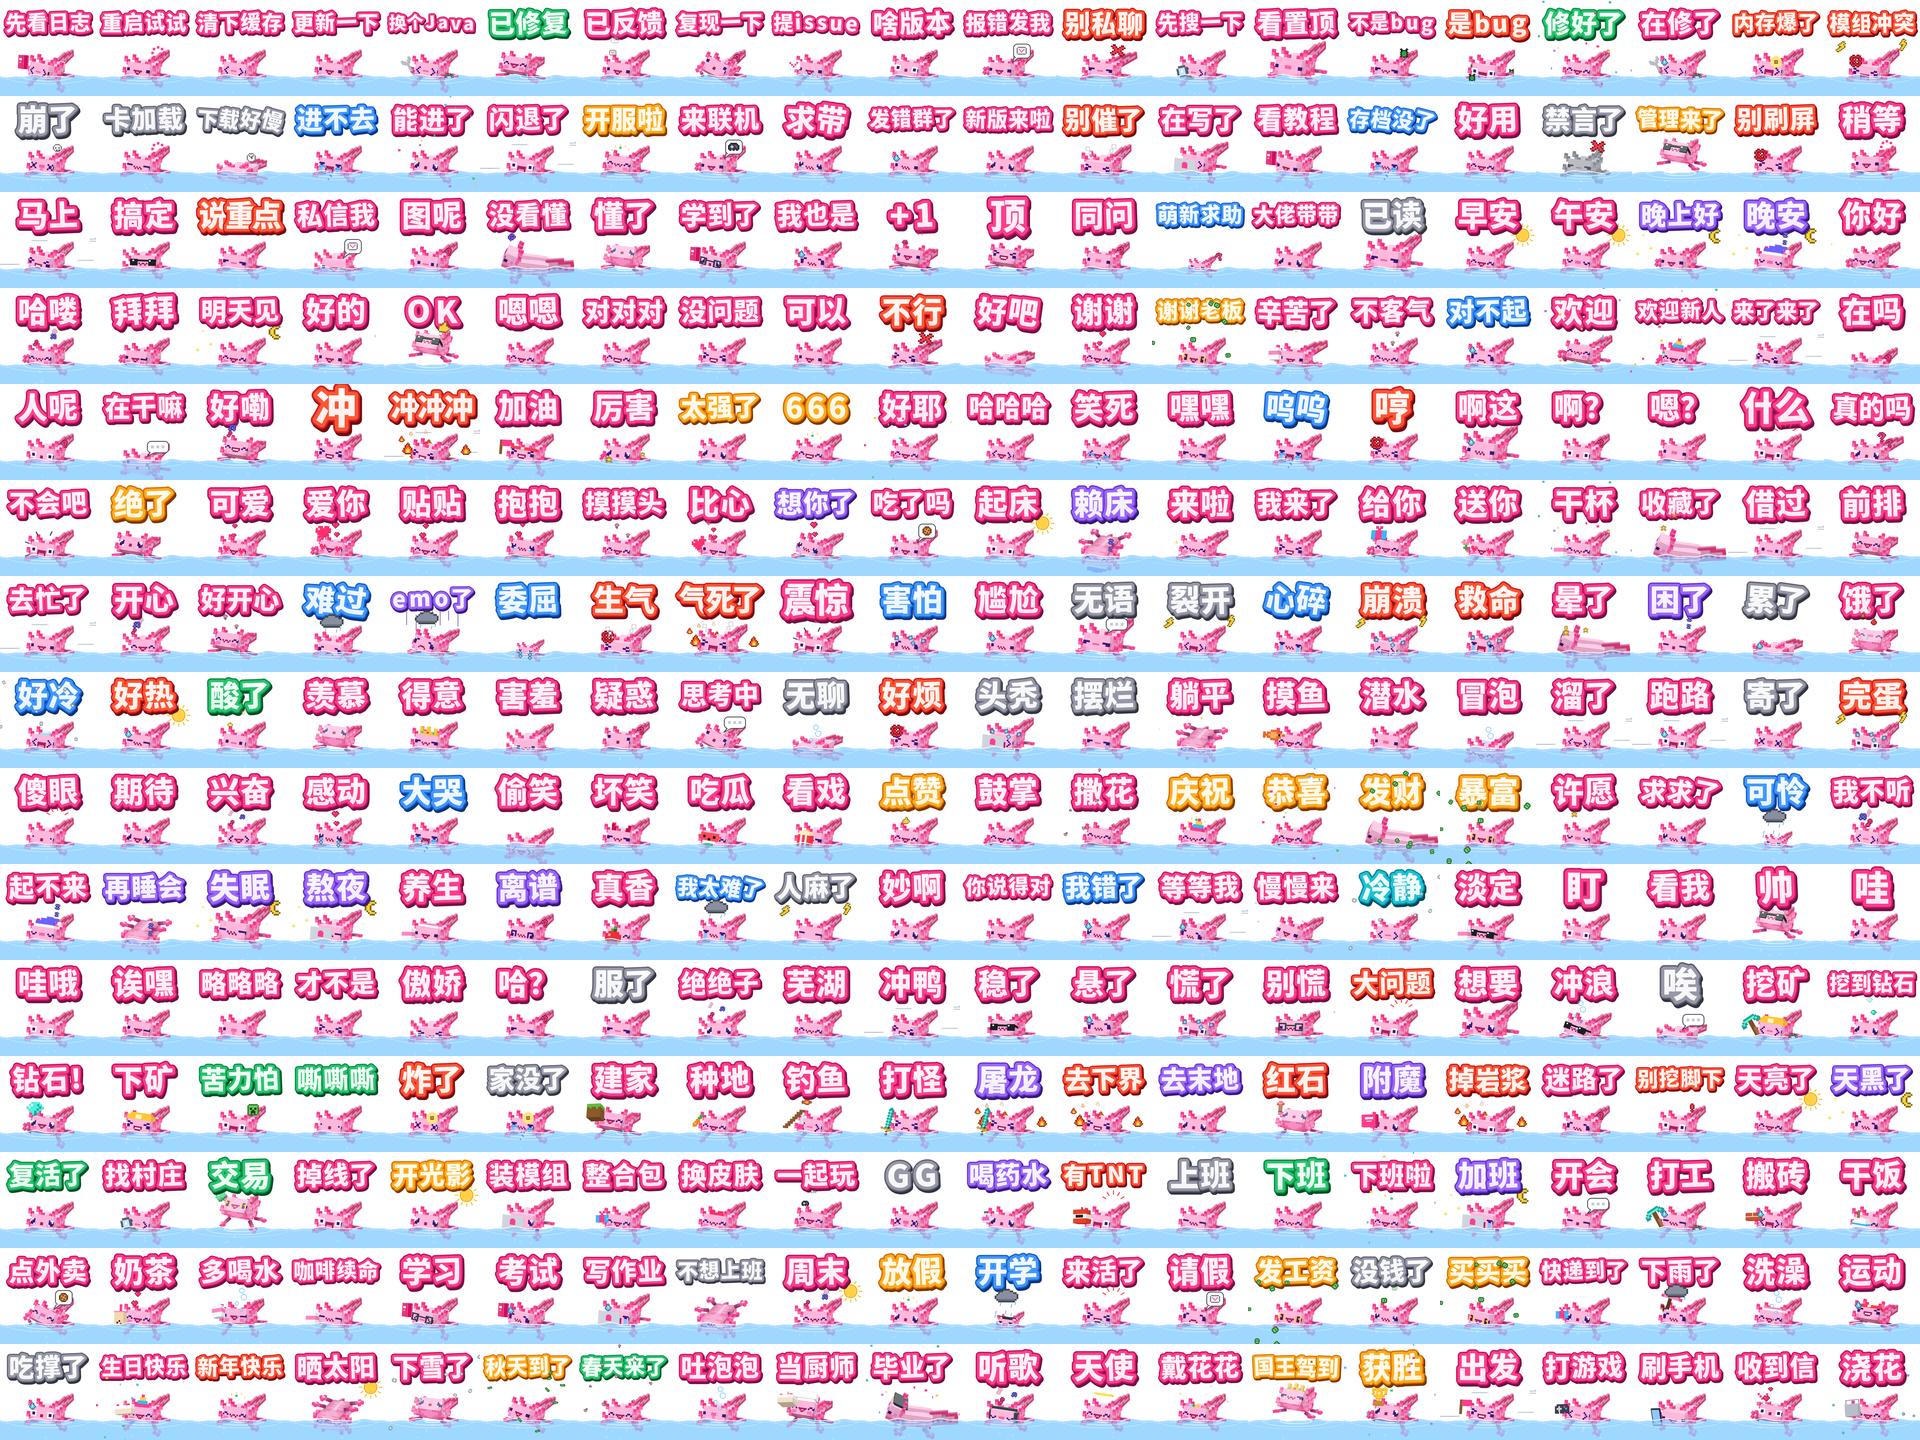
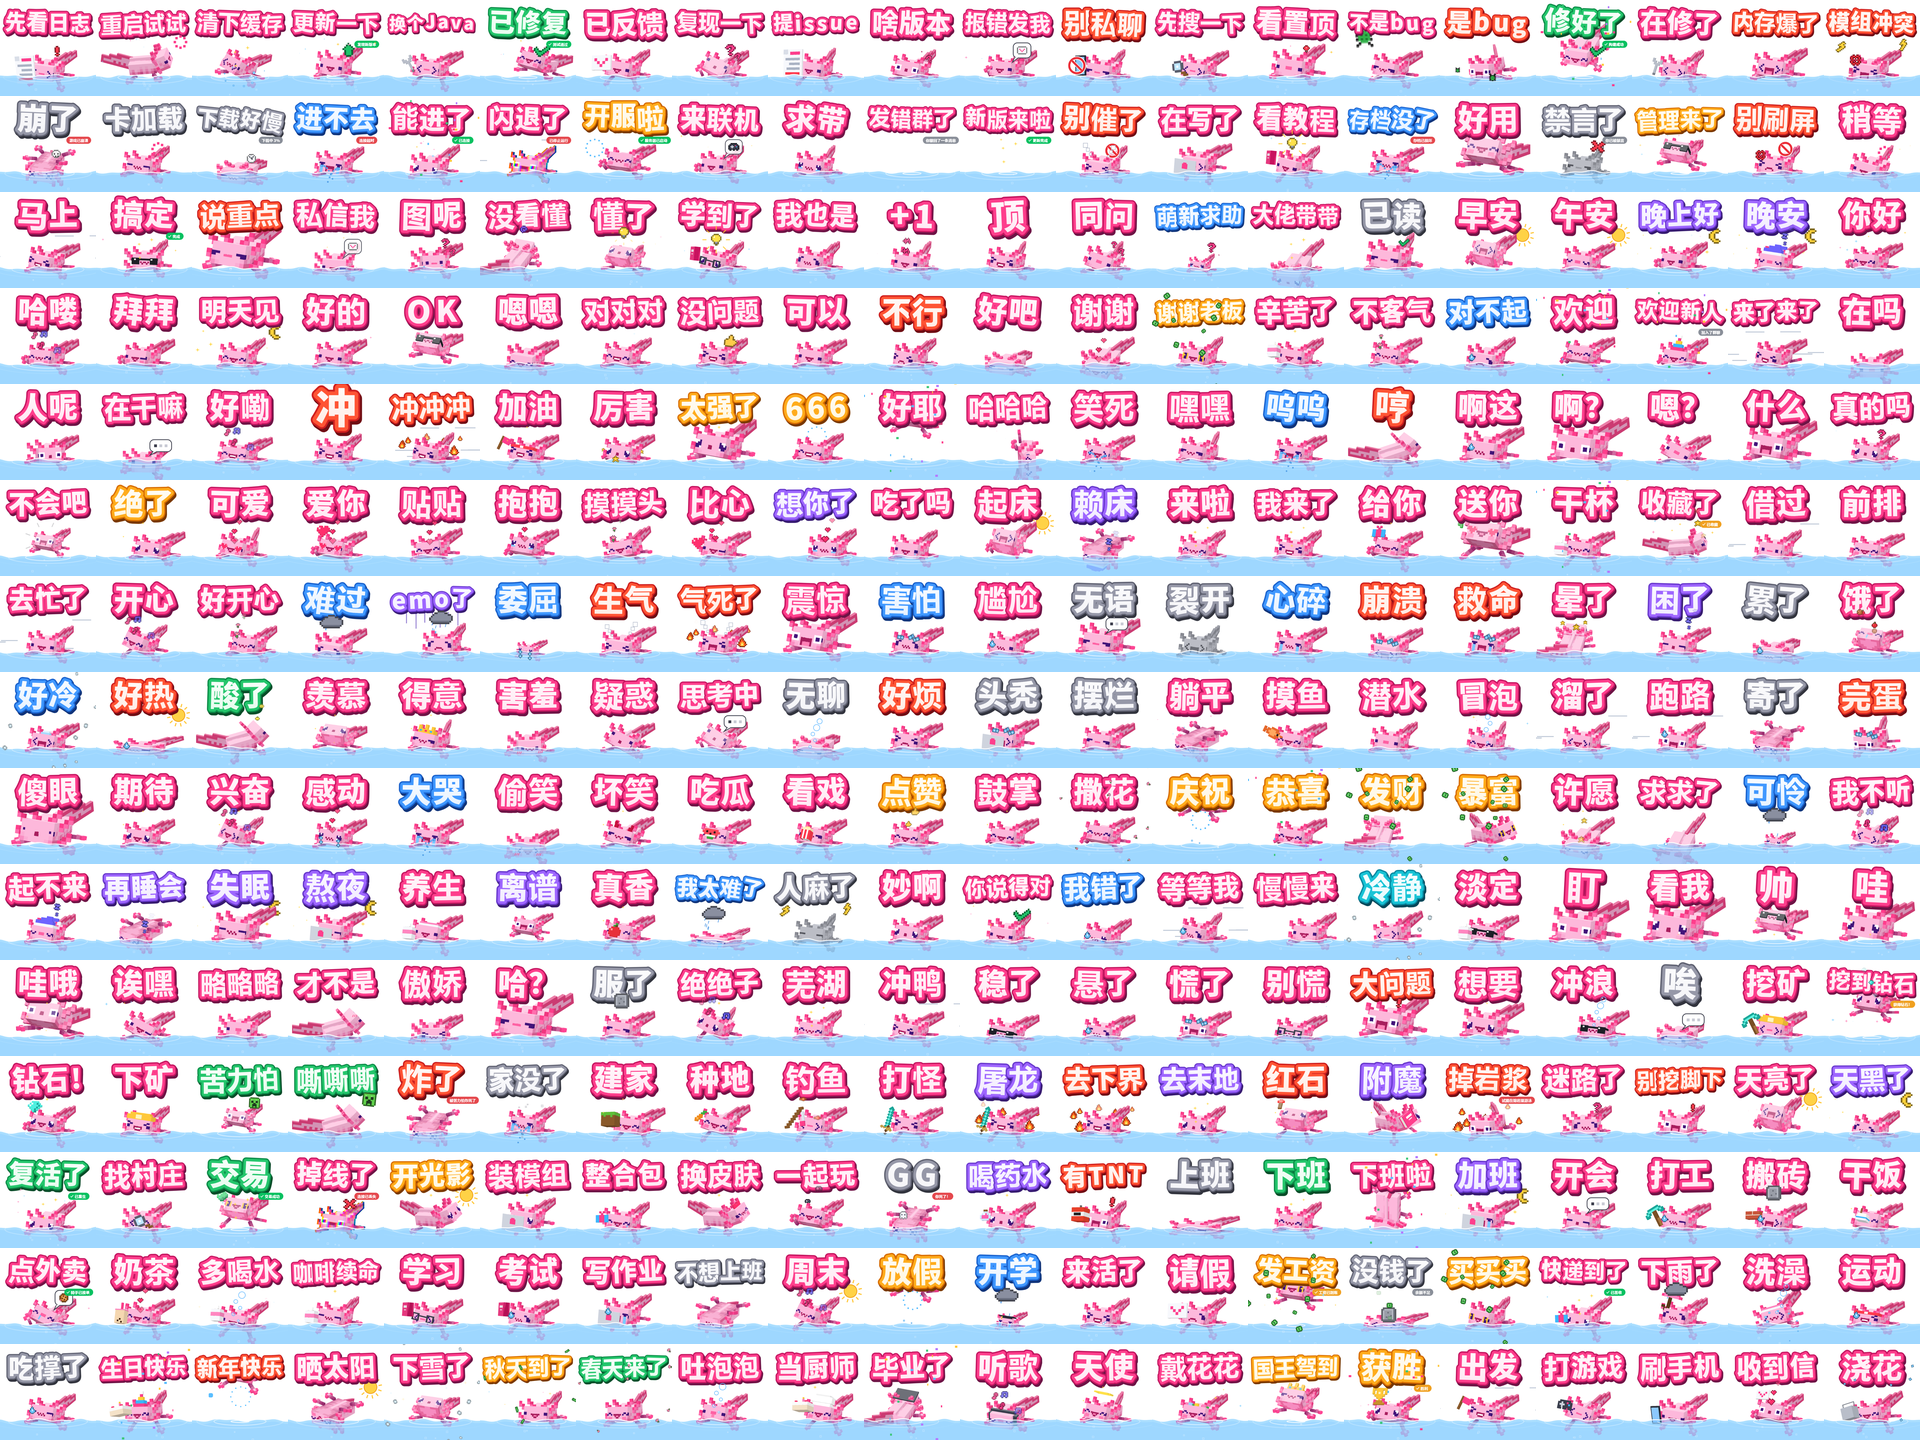
发布 v1.1.0：网站的打包下载换成新 zip，README 的总览图换成翻新后的封面
- 首页「打包下载全部」和大图弹窗的 Release 链接改指 v1.1.0（AxoStickers-v1.1.0.zip，307 张：翻新后的 300 张 + 4 张初代 + 水龙卷，260 MB），
  大图弹窗里的说明写上初代。
- out/_总览.png 按翻新后的封面重拼（还是 20 × 15、每格 96 px）。新加 engine/overview.py 出这张图，README 的重出步骤里写上了。

Changed region(s): [[0.0, 0.0, 1.0, 1.0]]

diff --git a/site/src/util.js b/site/src/util.js
@@ -5,7 +5,7 @@ import CAT from '../../workshop/catalog.json';
 export { CAT };
 export { CONTRIBUTE } from './flags.js';
 export const REPO = 'Axolotl-Launcher/AxoStickers';
-export const RELEASE = { url: `https://github.com/${REPO}/releases/download/v1.0.0/AxoStickers-v1.0.0.zip`, size: '282 MB' };
+export const RELEASE = { url: `https://github.com/${REPO}/releases/download/v1.1.0/AxoStickers-v1.1.0.zip`, size: '260 MB' };
 export const STYLE_COLORS = {          // [浅, 深]：字色色块（engine/axl.py STYLES 的外描边 / 深描边）
   pink: ['#fe3e8c', '#c41660'], blue: ['#4098ff', '#1a62cd'], purple: ['#9e66ff', '#6838cc'], red: ['#ff5434', '#ce1e1e'],
   green: ['#24c66c', '#0c8c48'], gold: ['#ffac1c', '#d86c00'], gray: ['#9698a8', '#606272'], cyan: ['#18c4d6', '#0888a0'],

diff --git a/site/src/detail.js b/site/src/detail.js
@@ -54,7 +54,7 @@ function fill() {
   if (kind === 'workshop') note.append('想让它进下一版正式表情包？去 issue 里喊一声。');
   else {
     if (it.series === '水龙卷') note.append('水龙卷用到了原版 Minecraft 材质，没放进工坊，只能本地用引擎出（见 README）。 ');
-    note.append('全部 300 张 + 水龙卷打包：', el('a', { href: RELEASE.url, text: `Release zip（${RELEASE.size}）` }));
+    note.append('全部 300 张 + 4 张初代 + 水龙卷打包：', el('a', { href: RELEASE.url, text: `Release zip（${RELEASE.size}）` }));
   }
   const i = list.indexOf(it);
   $('#d-prev').disabled = i <= 0; $('#d-next').disabled = i < 0 || i >= list.length - 1;

diff --git a/engine/overview.py b/engine/overview.py
@@ -1,0 +1,22 @@
+"""封面总览图：python engine/overview.py
+out/_封面/ 里 300 张封面按编号拼成 20 × 15 的格子，每格 96 px -> out/_总览.png（README 顶上那张）。换了封面以后重跑一遍。"""
+import os, json
+from PIL import Image
+
+ROOT = os.path.dirname(os.path.dirname(os.path.abspath(__file__)))
+COLS, CELL = 20, 96
+
+def main():
+    data = json.load(open(os.path.join(ROOT, 'out', 'stickers.json'), encoding='utf-8'))
+    items = sorted(data['stickers'], key=lambda s: s['id'])
+    rows = -(-len(items) // COLS)
+    sheet = Image.new('RGB', (COLS * CELL, rows * CELL), 'white')
+    for k, s in enumerate(items):
+        im = Image.open(os.path.join(ROOT, s['cover'])).convert('RGB').resize((CELL, CELL), Image.LANCZOS)
+        sheet.paste(im, ((k % COLS) * CELL, (k // COLS) * CELL))
+    out = os.path.join(ROOT, 'out', '_总览.png')
+    sheet.save(out, optimize=True)
+    print(len(items), 'covers ->', out)
+
+if __name__ == '__main__':
+    main()

diff --git a/README.md b/README.md
@@ -39,6 +39,7 @@ python engine/projects.py                # 按 specs.py 生成工程 -> out/proj
 cd site && npm run build                 # 出图用的是构建好的网站（dist/sandbox.html）
 node tools/render_stickers.mjs --channel msedge          # 出全部：out/NNN_文字.gif + out/_封面/；一批 20 张歇 20 秒。只出几张：后面加 12,40-45
 cd .. && python engine/manifest.py       # 更新 out/stickers.json（会带上工程路径和做法摘要）
+python engine/overview.py                # 按新封面重拼 README 顶上的总览图 out/_总览.png
 ```
 
 `--channel msedge` 用本机的 Edge（也可以 `chrome`）；不写就用 Playwright 自己下的 Chromium，没显卡的机器加 `--soft`。
